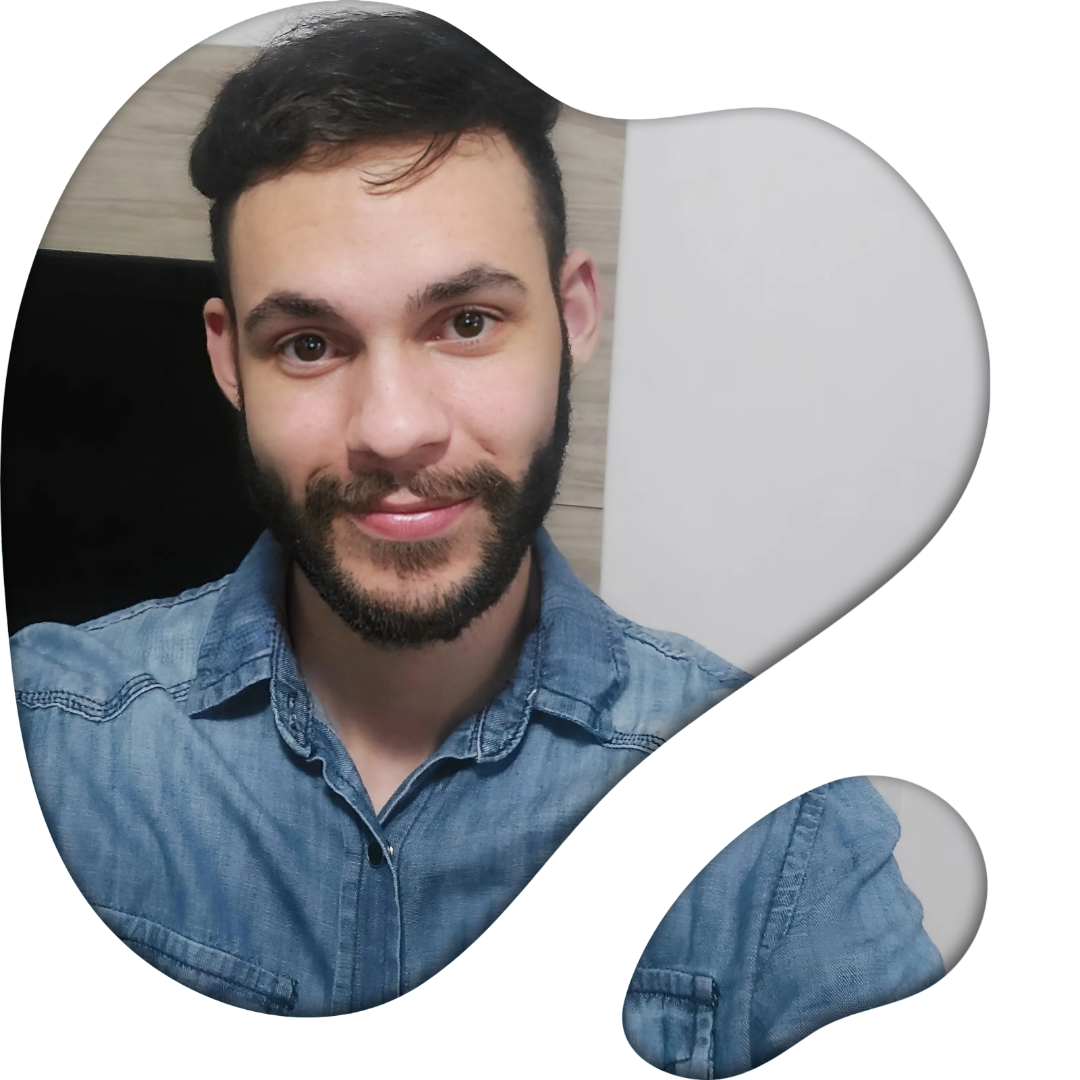
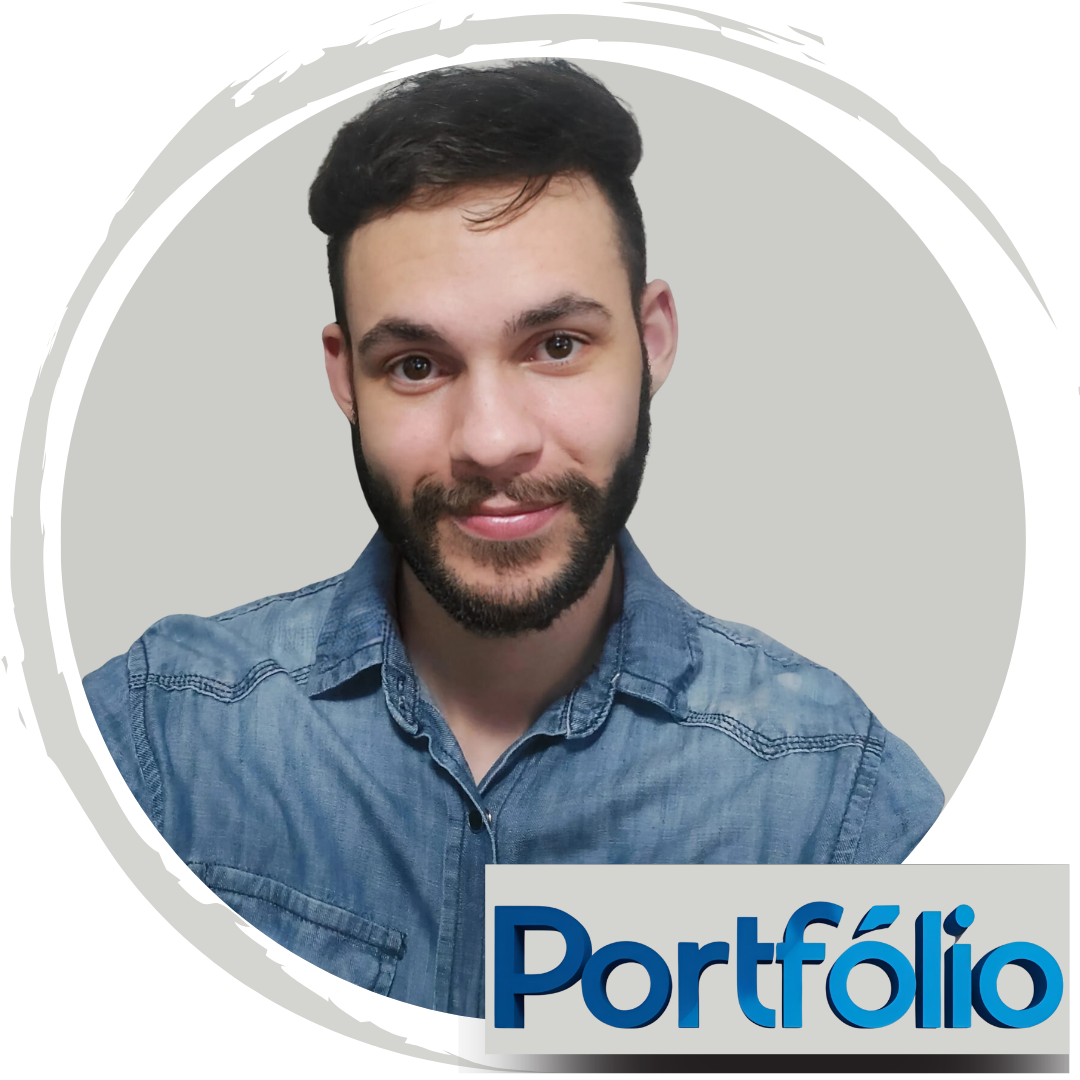
update

diff --git a/index.html b/index.html
@@ -39,7 +39,10 @@
     </header>
 
     <div id="headerTextAndImage">
-      <img src="images/perfil.png" alt="Rosto de Alison Sousa" />
+      <img src="images/perfil.png" alt="Rosto de Alison Sousa" oncontextmenu="return false;" 
+     ondragstart="return false;" 
+     onmousedown="return false;" 
+     style="user-select: none; -webkit-user-drag: none;" />
       <div id="headerText">
         <p>Olá,</p>
         <h1>Sou <span>Alison Sousa</span></h1>
@@ -225,7 +228,11 @@
       </div>
     </div>
 
-    <div id="aboutImg"><img src="images/rosto portfolio.png" alt="Rosto de Alison Sousa" /></div>
+    <div id="aboutImg"><img src="images/rosto.png " alt="Rosto de Alison Sousa" 
+    oncontextmenu="return false;" 
+     ondragstart="return false;" 
+     onmousedown="return false;" 
+     style="user-select: none; -webkit-user-drag: none;" /></div>
   </section>
 
   <!-- Portfólio -->
@@ -234,12 +241,16 @@
     <div id="iscool">
       <div id="iscoolImages">
         <div class="layer">
-          <img src="images/cfa1.PNG" alt="Captura da tela Home do aplicativo CFA">
+          <img src="images/cfa1.PNG" alt="Captura da tela Home do aplicativo CFA"      
+     oncontextmenu="return false;" 
+     ondragstart="return false;" 
+     onmousedown="return false;" 
+     style="user-select: none; -webkit-user-drag: none;">
           <div class="layer1">
             <p>Acesse os links abaixo para saber mais.</p>
             <div>
               <a href="https://cfasociety.org.br/research-challenge/" title="Site do CFA"
-                target="_blank" aria-label="Botão para abrir o site do IsCool noutra aba do navegador"><i
+                target="_blank" aria-label="Botão para abrir o site noutra aba do navegador"><i
                   class="fa-solid fa-arrow-up-right-from-square"></i></a>
               <a href="https://github.com/Alison-Sousa/competitions/tree/main/cfa" title="Repositório do CFA Research no GitHub" target="_blank"
                 aria-label="Botão para abrir noutra aba do navegador o repositório do CFA Research"><i
@@ -248,12 +259,16 @@
           </div>
         </div>
         <div class="layer">
-          <img src="images/cfa2.PNG" alt="Captura da tela Timer do aplicativo IsCool">
+          <img src="images/cfa2.PNG" alt="Captura da tela do aplicativo CFA"     
+     oncontextmenu="return false;" 
+     ondragstart="return false;" 
+     onmousedown="return false;" 
+     style="user-select: none; -webkit-user-drag: none;">
           <div class="layer1">
             <p>Acesse os links abaixo para saber mais.</p>
             <div>
               <a href="https://cfasociety.org.br/research-challenge/" title="Site do CFA"
-                target="_blank" aria-label="Botão para abrir o site do IsCool noutra aba do navegador"><i
+                target="_blank" aria-label="Botão para abrir o site noutra aba do navegador"><i
                   class="fa-solid fa-arrow-up-right-from-square"></i></a>
               <a href="https://github.com/Alison-Sousa/competitions/tree/main/cfa" title="Repositório do CFA Research no GitHub" target="_blank"
                 aria-label="Botão para abrir noutra aba do navegador o repositório do CFA Research"><i
@@ -262,12 +277,16 @@
           </div>
         </div>
         <div class="layer">
-          <img src="images/cfa3.PNG" alt="Captura da tela Estatísticas do aplicativo IsCool">
+          <img src="images/cfa3.PNG" alt="Captura da tela do aplicativo CFA"      
+     oncontextmenu="return false;" 
+     ondragstart="return false;" 
+     onmousedown="return false;" 
+     style="user-select: none; -webkit-user-drag: none;">
           <div class="layer1">
             <p>Acesse os links abaixo para saber mais.</p>
             <div>
               <a href="https://cfasociety.org.br/research-challenge/" title="Site do CFA"
-                target="_blank" aria-label="Botão para abrir o site do IsCool noutra aba do navegador"><i
+                target="_blank" aria-label="Botão para abrir o site noutra aba do navegador"><i
                   class="fa-solid fa-arrow-up-right-from-square"></i></a>
               <a href="https://github.com/Alison-Sousa/competitions/tree/main/cfa" title="Repositório do CFA Research no GitHub" target="_blank"
                 aria-label="Botão para abrir noutra aba do navegador o repositório do CFA Research"><i
@@ -294,7 +313,11 @@
      <div id="iscool">
       <div id="iscoolImages">
         <div class="layer">
-          <img src="images/femibion1.png" alt="Captura da tela Home do aplicativo Femibion">
+          <img src="images/femibion1.png" alt="Captura da tela Home do aplicativo Femibion"      
+     oncontextmenu="return false;" 
+     ondragstart="return false;" 
+     onmousedown="return false;" 
+     style="user-select: none; -webkit-user-drag: none;">
           <div class="layer1">
             <p>Acesse os links abaixo para saber mais.</p>
             <div>
@@ -308,7 +331,11 @@
           </div>
         </div>
         <div class="layer">
-          <img src="images/femibion2.png" alt="Captura da tela Timer do aplicativo Femibion">
+          <img src="images/femibion2.png" alt="Captura da tela Timer do aplicativo Femibion"      
+     oncontextmenu="return false;" 
+     ondragstart="return false;" 
+     onmousedown="return false;" 
+     style="user-select: none; -webkit-user-drag: none;">
           <div class="layer1">
             <p>Acesse os links abaixo para saber mais.</p>
             <div>
@@ -322,7 +349,11 @@
           </div>
         </div>
         <div class="layer">
-          <img src="images/femibion3.png" alt="Captura da tela Estatísticas do aplicativo Femibion">
+          <img src="images/femibion3.png" alt="Captura da tela Estatísticas do aplicativo Femibion"      
+     oncontextmenu="return false;" 
+     ondragstart="return false;" 
+     onmousedown="return false;" 
+     style="user-select: none; -webkit-user-drag: none;">
           <div class="layer1">
             <p>Acesse os links abaixo para saber mais.</p>
             <div>
@@ -352,7 +383,11 @@
     <div id="dbgeral">
       <div id="dbgeralImages">
         <div class="layer">
-         <img src="images/itau.gif" alt="Captura da tela do site Itaú Quant" width="700" height="600">
+         <img src="images/itau.gif" alt="Captura da tela do site Itaú Quant" width="700" height="600"      
+     oncontextmenu="return false;" 
+     ondragstart="return false;" 
+     onmousedown="return false;" 
+     style="user-select: none; -webkit-user-drag: none;">
           <div class="layer1">
             <p>Acesse os links abaixo para saber mais.</p>
             <div>
@@ -385,7 +420,11 @@
       <div id="dbgeral">
       <div id="dbgeralImages">
         <div class="layer">
-         <img src="images/imf.gif" alt="Captura da tela do site Banco de Dados do FMI" width="700" height="600">
+         <img src="images/imf.gif" alt="Captura da tela do site Banco de Dados do FMI" width="700" height="600"      
+     oncontextmenu="return false;" 
+     ondragstart="return false;" 
+     onmousedown="return false;" 
+     style="user-select: none; -webkit-user-drag: none;">
           <div class="layer1">
             <p>Acesse os links abaixo para saber mais.</p>
             <div>
